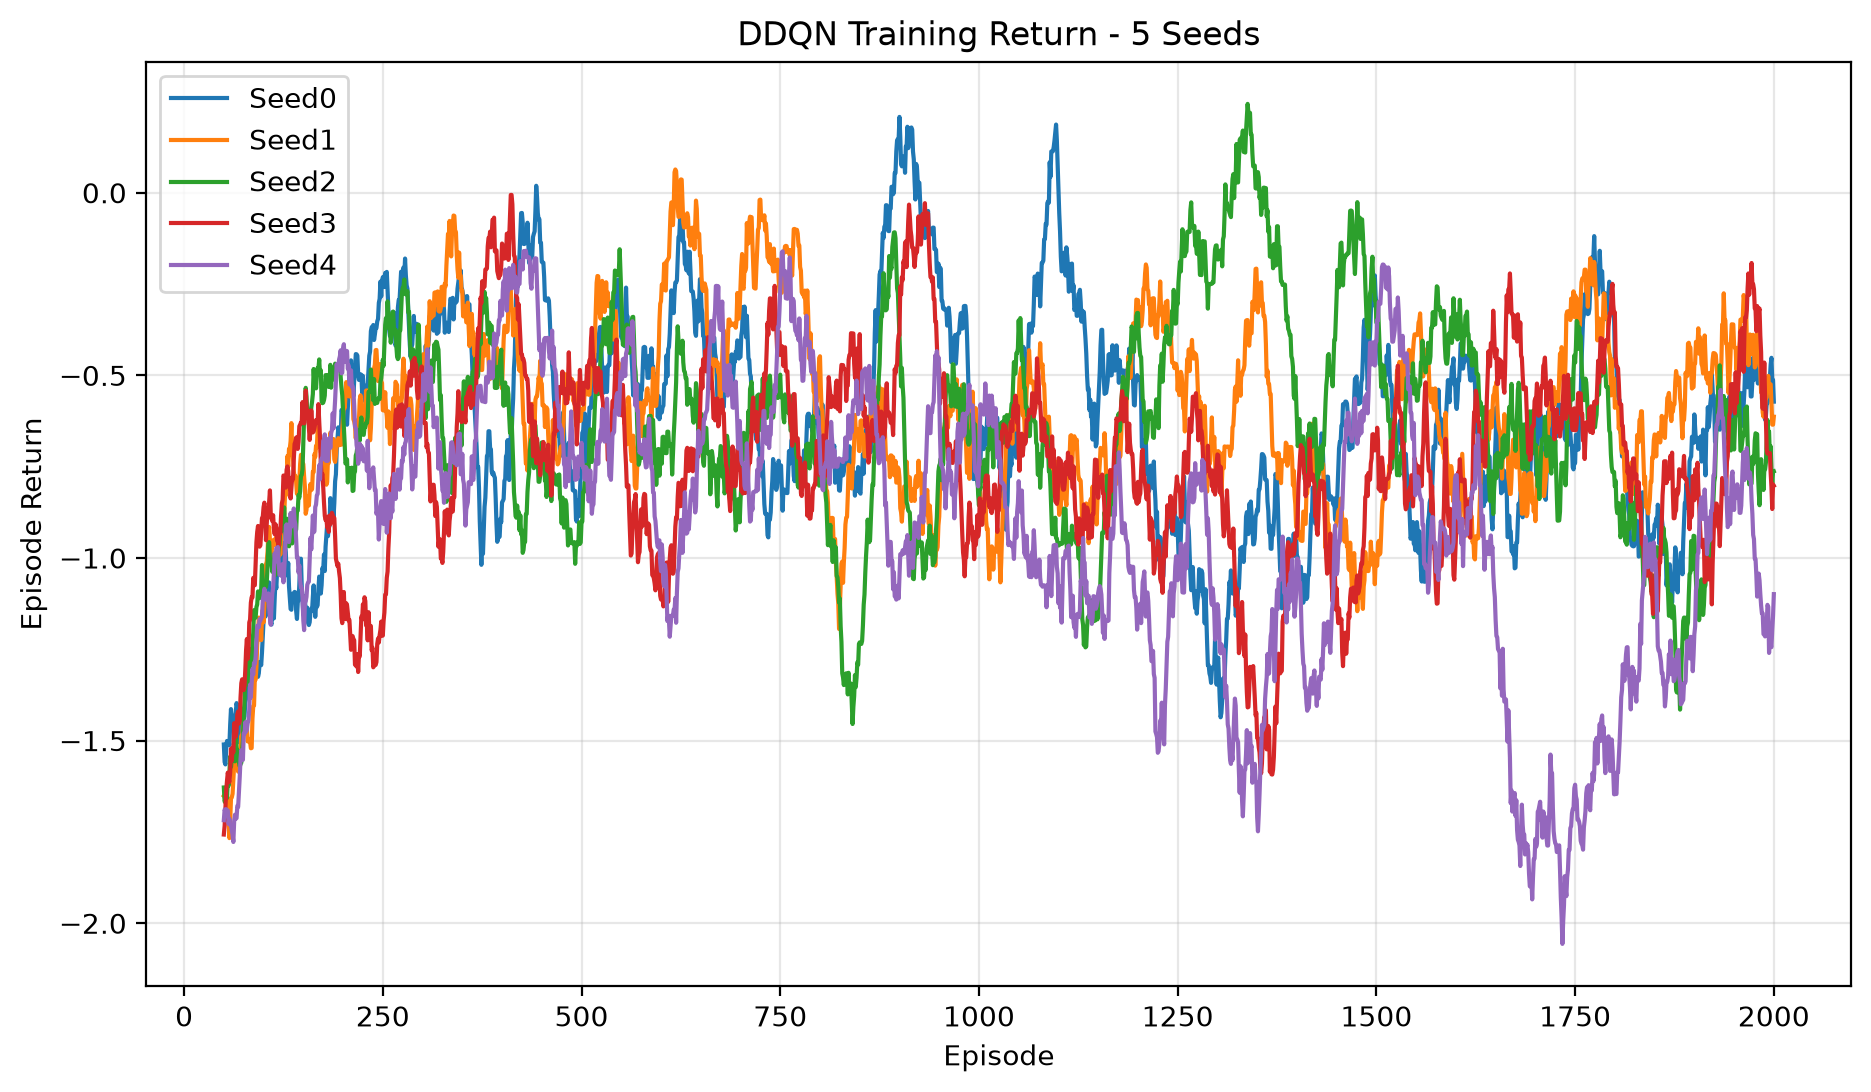
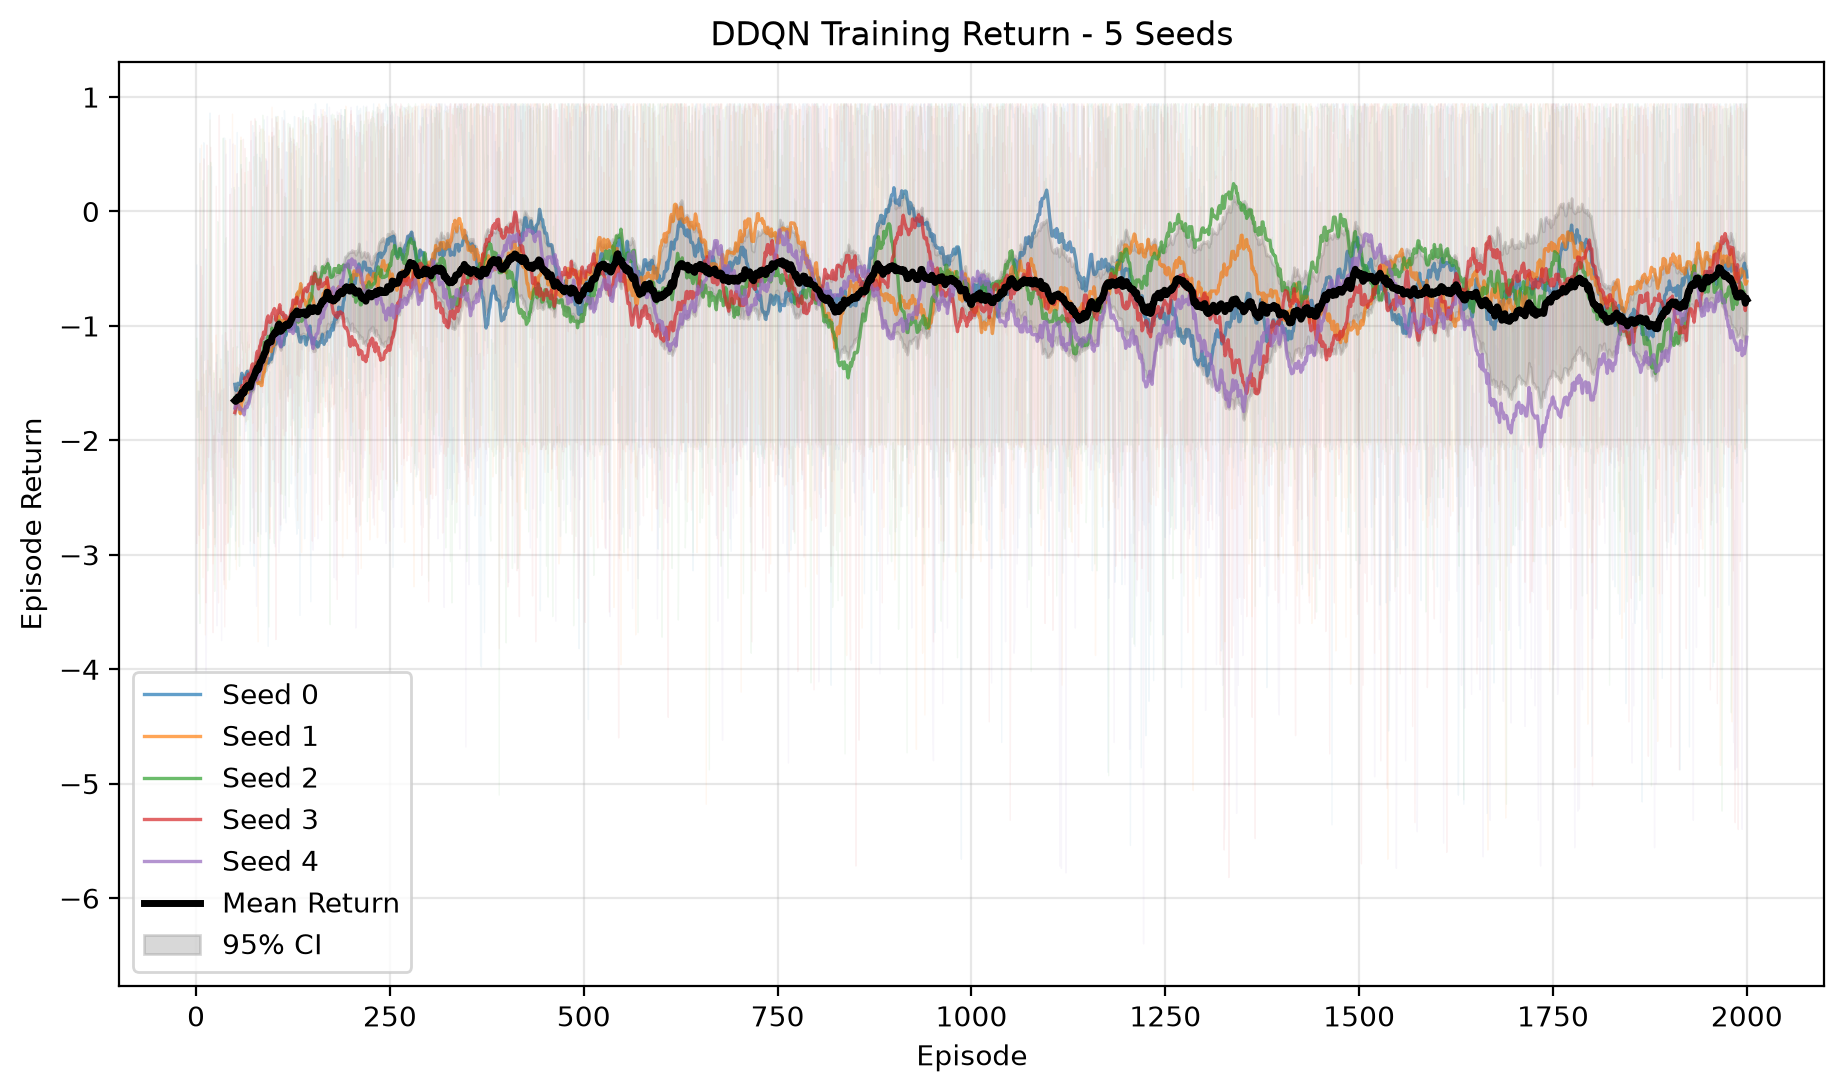
feat(analysis): add multi-seed return confidence intervals

diff --git a/scripts/plot_training.py b/scripts/plot_training.py
@@ -64,7 +64,69 @@ def plot_training_return():
         # np.arrage(50,2001)=[50,51,52,...,2000]
         # 因为移动平均窗口是 50。第一个平滑值：Episode 1～50 的平均 Return，对应横坐标 50。
         episodes = np.arange(WINDOW, WINDOW + len(smooth_returns))
-        plt.plot(episodes, smooth_returns, label=f"Seed{seed}")
+        (line,) = plt.plot(
+            episodes, smooth_returns, label=f"Seed {seed}", linewidth=1.2, alpha=0.7
+        )
+        plt.plot(
+            np.arange(1, len(returns) + 1),
+            returns,
+            color=line.get_color(),
+            linewidth=0.5,
+            alpha=0.06,
+        )
+        # plt.plot(episodes, smooth_returns, label=f"Seed{seed}")
+
+    # ===== Step 6: 五种子统计 =====
+    # TODO 6:
+    # 将 curves 转换成 NumPy 数组
+    # 目标形状：(5, 1951)
+    curves_array = np.array(curves)
+
+    # TODO 7:
+    # 计算五种子平均 Return
+    # 提示：np.mean(..., axis=0)
+    # axis=0：沿第 0 维计算，即对不同行的同一列数据求平均，得到每一列的均值。
+    mean_returns = np.mean(curves_array, axis=0)
+
+    # TODO 8:
+    # 计算每个 Episode 的样本标准差
+    # 提示：np.std(..., axis=0, ddof=1)
+    std_returns = np.std(curves_array, axis=0, ddof=1)
+
+    # ===== Step 7: 计算 95% 置信带 =====
+
+    n_seeds = len(SEEDS)
+
+    # 五种子、df=4 的双侧 t 临界值
+    t_critical = 2.776
+
+    # TODO 9:
+    # 标准误：std / sqrt(n)
+    standard_error = std_returns / np.sqrt(n_seeds)
+
+    # TODO 10:
+    # 置信区间上下界
+    ci_lower = mean_returns - t_critical * standard_error
+    ci_upper = mean_returns + t_critical * standard_error
+
+    # ===== Step 8: 绘图 =====
+
+    episodes = np.arange(WINDOW, WINDOW + len(mean_returns))
+
+    # TODO 11:
+    # 使用 plt.plot() 绘制 mean_returns
+    # 建议黑色、linewidth=2.5
+    # label="Mean Return"
+    plt.plot(episodes, mean_returns, color="black", linewidth=2.5, label="Mean Return")
+
+    # TODO 12:
+    # 使用 plt.fill_between()
+    # 绘制 ci_lower 到 ci_upper 之间的阴影
+    # 建议 alpha=0.2
+    # label="95% CI"
+    plt.fill_between(
+        episodes, ci_lower, ci_upper, color="gray", alpha=0.3, label="95% CI"
+    )
 
     plt.xlabel("Episode")
     plt.ylabel("Episode Return")

diff --git a/README.md b/README.md
@@ -654,3 +654,199 @@ Std Success Rate: 0.0300
 ![](/doc/img/18.3.3.png)
 
 初步结论：五种子训练回报表现出早期改善，但后期不稳定，种子间存在明显差异。
+
+第二步：补充平均曲线和置信带
+
+##### 置信区间
+
+假设你训练了 5 个 DDQN 模型：
+Seed	Success Rate
+0	0.30
+1	0.40
+2	0.35
+3	0.45
+4	0.50
+
+计算得到：
+\[
+\bar{x}=\frac{0.30+0.40+0.35+0.45+0.50}{5}=0.40
+\]
+
+你可以报告：
+DDQN 的平均成功率是 40%。
+
+但有个问题：
+
+如果重新用另外 5 个随机种子训练，平均成功率还一定是 40% 吗？
+
+不一定。可能是 35%，也可能是 44%。
+
+因为我们只进行了 5 次独立实验，对不同随机种子下的总体平均表现还不够了解。
+
+**所以需要使用置信区间，表达平均值估计的不确定性。**
+
+##### 正态分布
+
+正态分布关于中心对称，中间 −1.96 到 +1.96 的区域约占总概率的 95%。
+![](/doc/img/18.3.3.2.svg)
+标准正态分布的特点：
+- 均值为 0。
+- 标准差为 1。
+- 曲线呈钟形，越接近中心越常见。
+其中最重要的结论是：
+\[
+P(-1.96\leq Z\leq1.96)\approx0.95
+\]
+
+当总体标准差已知，且样本均值满足正态分布条件时，可以使用：
+\[
+CI_{95\%}=\bar{x}\pm1.96\frac{\sigma}{\sqrt n}
+\]
+
+但你的 DDQN 实验存在一个问题：我们不知道不同 Seed 的总体标准差 \(\sigma\)。
+
+我们只能根据五次实验，计算样本标准差 \(s\)。
+
+这就引出了 t 分布。
+
+##### t分布
+
+t 分布（Student's t-distribution）是一种与正态分布相似、左右对称，但尾部通常更厚的概率分布。
+
+为什么需要它？
+
+因为当我们不知道总体标准差时，必须使用样本标准差 \(s\) 来估计它。
+
+而 \(s\) 本身也是随机的，存在估计误差。
+
+特别是只有 5 个样本时，标准差的估计可能不够稳定。
+
+t 分布把这种额外的不确定性考虑了进去。
+
+![](/doc/img/18.3.3.3.png)
+为什么 t 分布的临界值更大？
+
+因为我们要考虑样本标准差估计的不确定性，所以需要采用更宽的范围来达到相同的 95% 覆盖概率。
+
+注意：当样本量越来越大时，t 分布会逐渐接近标准正态分布，临界值也会逐渐接近 1.96。
+
+#### 自由度
+
+自由度（Degrees of Freedom，df）是 t 分布的一个关键参数。
+
+对于通常的单样本均值估计：
+\[
+df=n-1
+\]
+
+你的 DDQN 实验有 5 个 Seed：
+\[
+n=5
+\]
+
+所以：
+\[
+df=5-1=4
+\]
+
+为什么是 n−1，而不是 n？
+假设有五个数，它们的平均值已经确定为 10。
+
+意味着：
+\[
+x_1+x_2+x_3+x_4+x_5=50
+\]
+
+当你已经确定前四个数时，第五个数就必须满足：
+\[
+x_5=50-x_1-x_2-x_3-x_4
+\]
+
+所以五个数中，只有四个数可以自由变化。
+
+这就是为什么计算样本方差时需要减去一个自由度，也是这里使用 \(df=4\) 的直观原因。
+
+因为我们只有五个 Seed，不建议直接用 1.96 作为正态近似临界值。
+我们使用自由度为 4 的 t 分布临界值：公式是：
+\[
+\boxed{CI_{95\%}=\bar{x}\pm2.776\frac{s}{\sqrt5}}
+\]
+
+逐个解释：
+符号	含义
+\(CI_{95\%}\)	95% 置信区间
+\(\bar{x}\)	五个 Seed 的样本平均值
+\(2.776\)	自由度为 4 的 t 分布双侧 95% 临界值
+\(s\)	五个 Seed 的样本标准差，ddof=1
+\(\sqrt5\)	样本数量的平方根
+\(s/\sqrt5\)	均值的标准误（Standard Error）
+
+其中 \(s/\sqrt n\) 描述的是样本均值估计的波动程度，而不是单个 Seed 的波动程度。
+具体计算一次
+假设你的五个 Seed 的成功率如下（示例）：
+success_rates = [0.30, 0.40, 0.35, 0.45, 0.50]
+计算得到：
+\[
+\bar{x}=0.40
+\]
+
+\[
+s\approx0.0791
+\]
+
+代入：
+\[
+CI_{95\%}=0.40\pm2.776\times\frac{0.0791}{\sqrt5}
+\]
+
+得到：
+\[
+CI_{95\%}\approx0.40\pm0.0981
+\]
+
+因此：
+\[
+\boxed{CI_{95\%}\approx[0.302,\ 0.498]}
+\]
+
+也就是区间大约为 30.2%～49.8%。
+
+该区间表示：在独立、近似正态等统计假设成立时，如果反复抽取五个随机种子并按相同方法计算区间，长期来看约 95% 的区间会覆盖真实的总体平均成功率。
+
+它不是说真实平均成功率有 95% 的概率落在这一次算出的固定区间内。
+
+下面：**把 5 条 Seed 的训练曲线汇总成一条平均 Return 曲线，并在平均曲线周围绘制 95% 置信区间的阴影。**
+
+
+plot_training_return()
+│
+├── 创建 figure
+│
+├── for seed in SEEDS:
+│   ├── 读取 Return
+│   ├── 计算移动平均
+│   ├── 保存到 curves
+│   ├── 绘制该 Seed 平滑曲线
+│   └── 绘制该 Seed 原始曲线
+│
+├── curves_array = np.array(curves)
+│
+├── 计算 mean_returns
+├── 计算 std_returns
+├── 计算 standard_error
+├── 计算 ci_lower、ci_upper
+│
+├── 绘制五种子 Mean Return
+├── 绘制 95% CI 阴影
+│
+└── 保存 PNG
+
+![](/doc/img/18.3.3.4.png)
+
+观察到：
+1. Episode 1～300： 平均 Return 明显改善，说明训练早期学到了一些有用行为。
+2. Episode 300～1200： 平均 Return 在大约 -0.5～-0.9 区间波动，缺少持续稳定上升的趋势。
+3. Episode 1200～1900： Seed 之间出现明显分歧，尤其 Seed 4 在部分区间出现较大的性能下降。
+4. Episode 2000： 平均 Return 并没有明显达到稳定的高值。
+
+初步结论：**DDQN 在训练早期改善了累计回报，但不同随机种子存在明显差异，训练后期仍有性能波动，尚不能认定稳定收敛。**
